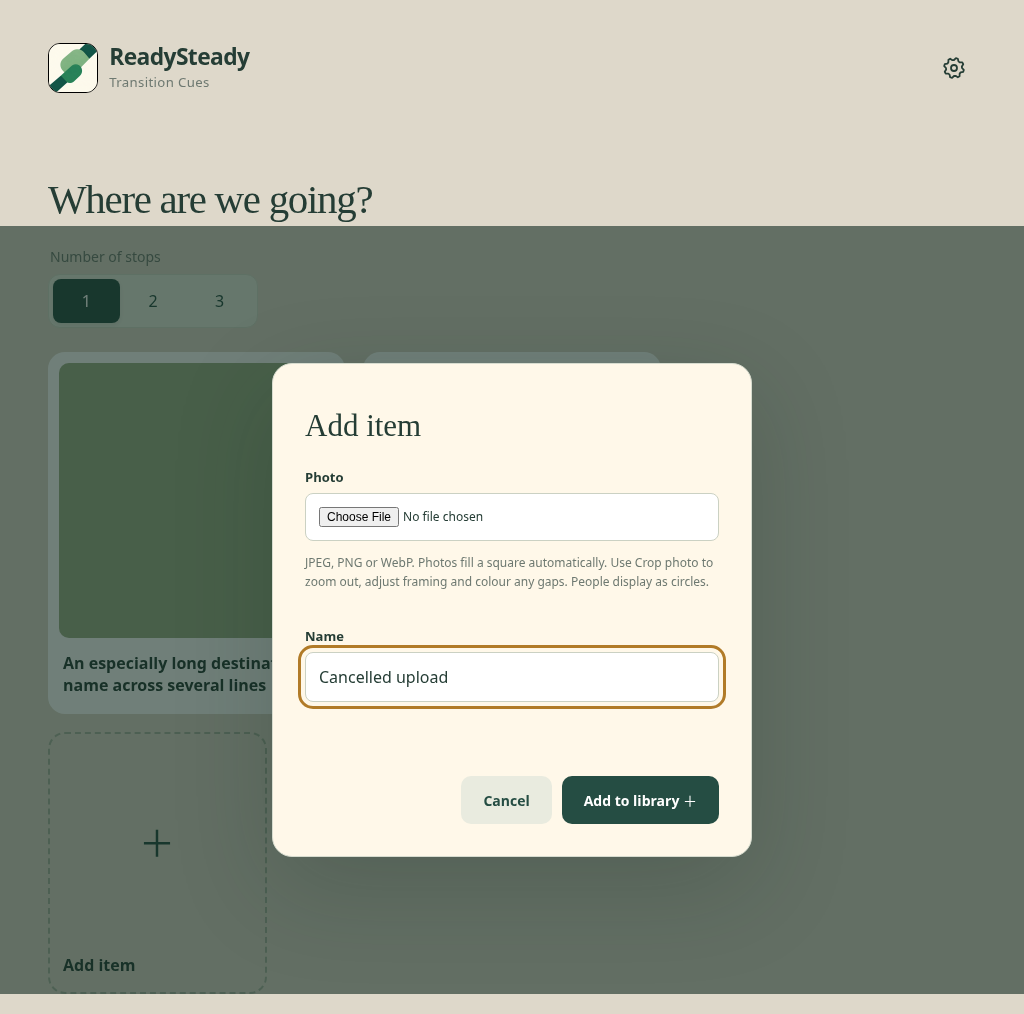
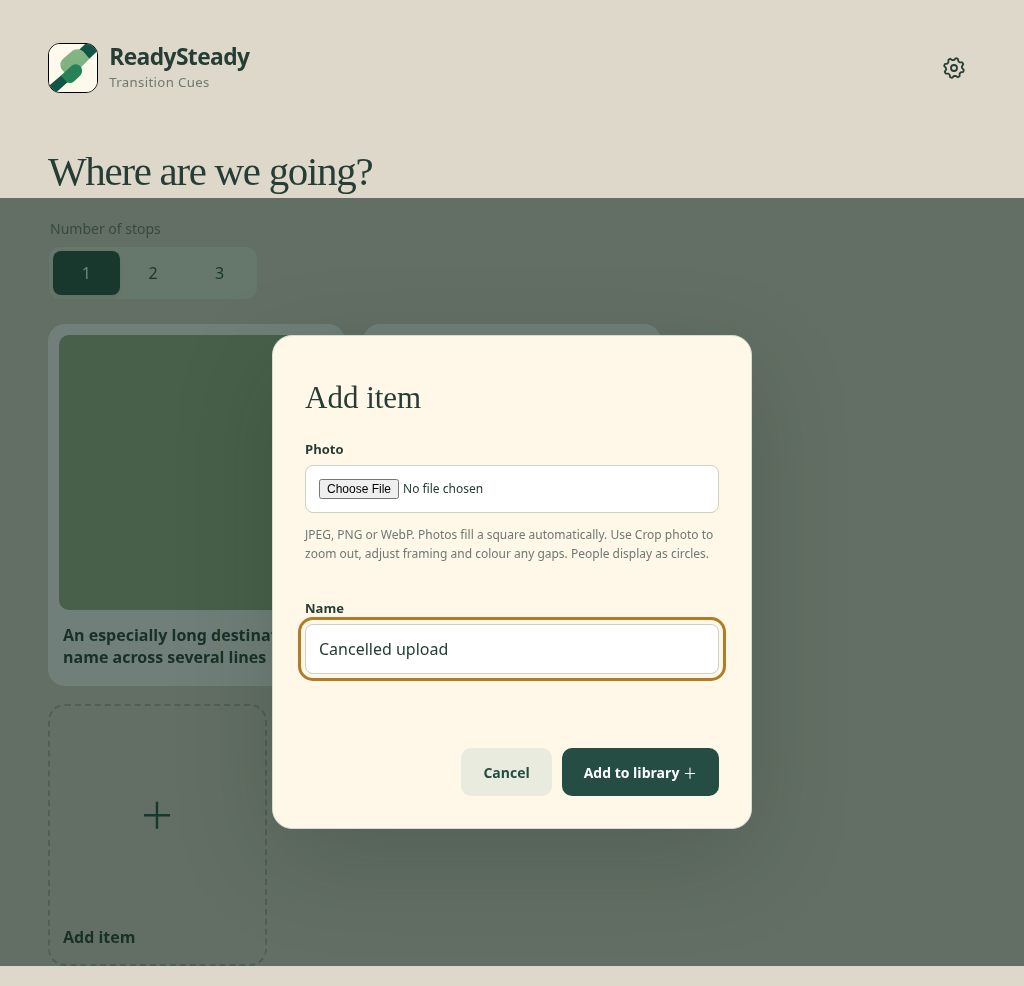
Tighten spacing above aligned planner questions in v1.0.37

diff --git a/transition_cues/transition-cues-web/style.css b/transition_cues/transition-cues-web/style.css
@@ -88,3 +88,6 @@
 
 /* Keep content below native status-bar/scroll-edge effects, including standalone PWAs. */
 :root{--top-clearance:calc(env(safe-area-inset-top,0px) + 12px)}.shell{padding-top:var(--top-clearance)}.locked{padding-top:calc(4vh + var(--top-clearance))}.locked:is(.has-items,.has-people){padding-top:calc(2vh + var(--top-clearance))}#planDialog{padding-top:calc(clamp(24px,6vw,72px) + var(--top-clearance))}dialog:not(#planDialog){position:fixed;inset:var(--top-clearance) 0 12px;max-height:calc(100dvh - var(--top-clearance) - 24px);margin:auto;overflow-y:auto}
+
+/* Bring each question closer to the header and Reset control. */
+.planner-header+#planStep>.wizard-heading{margin-top:0}.planner-header+#planStep>.wizard-heading h1{margin-top:0}

diff --git a/tests/container_smoke.py b/tests/container_smoke.py
@@ -81,5 +81,5 @@ print('PASS: replacement container preserves library and images in /data')
 
 if __name__ == '__main__':
     parser = argparse.ArgumentParser()
-    parser.add_argument('--image', default='transition-cues-ha-check:1.0.36')
+    parser.add_argument('--image', default='transition-cues-ha-check:1.0.37')
     run(parser.parse_args().image)

diff --git a/transition_cues/CHANGELOG.md b/transition_cues/CHANGELOG.md
@@ -1,5 +1,10 @@
 # Changelog
 
+## 1.0.37
+
+- Significantly reduce space between Reset and the Transport/People headings.
+- Move the opening Places heading up by the same amount to keep the questions aligned.
+
 ## 1.0.36
 
 - Reduce the opening logo, title and subtitle by 40%.
